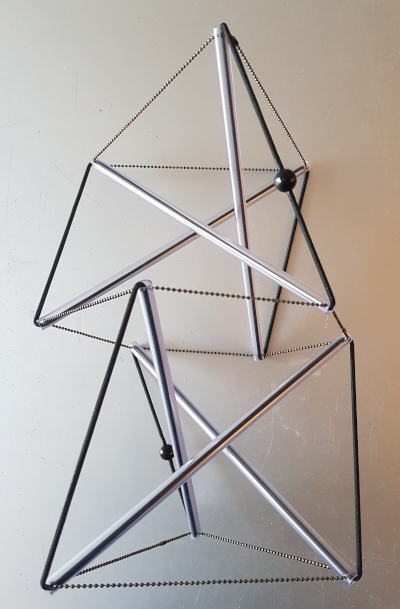
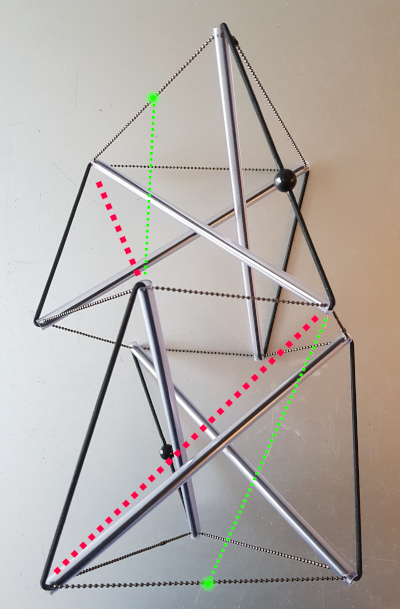
finished minimal

diff --git a/_posts/2021-02-01-minimal.md b/_posts/2021-02-01-minimal.md
@@ -6,54 +6,165 @@ categories: construction
 tags: [tensegrity]
 ---
 
-## Minimal
+## Minimalism
+
+I've always felt very excited and motivated by the idea of doing [more with less, which is called "Ephemeralization"](https://en.wikipedia.org/wiki/Ephemeralization), and I'm always looking to optimize and minimize in both code and materials, and especially techniques because they are weightless!
+
+So something about the previous project [*Degrees of Freedom*](/construction/2021/01/18/degrees-of-freedom) triggered me.
+
+It was **missing some tension lines**!  Each joint had just 3 instead of 5, yet it stood perfectly! I clearly needed to revise what I thought defines a **tensegrity**.
+
+I had tricked myself into thinking that the [Snelson Needle](https://krollermuller.nl/en/kenneth-snelson-needle-tower) structure was the defining set of tension and compression.
 
 ![dof-lesson][dof-lesson]
 
+The red tension lines could actually be added to the *Degrees of Freedom* structure, and their role would be to pull these two twists together (but what you would be doing is limiting its degrees of freedom, so that kind of defeats the purpose, or at least the name).
+
+The green tension lines would normally have been employed to pull towards the next twist above and the next one below, which in this case don't exist (green spots).
+
+Remember last time we saw the tension hexagon.
+
+![hex](/images/2021-01/dof-tension-hex.jpg)
+
+Normally in the structures we have built so far these hexagons are not flat, but are pulled into a zig zag shape by the tension lines which are missing in *Degrees of Freedom*.
+
+Gradually I realized that this was a whole new direction opening up for construction!
+
+## Three Tension Lines
+
+I was only able to stare at *Degrees of Freedom* for so long before I started wondering what this would be like with serious materials.
+
+I had to get this structure in my head and find out how it feels in **brass and dyneema**!
+
+I made a little animation to meditate on, so I could get a feeling for what only the cords of a tower would look like with this minimal tension scheme.
+
+<iframe width="560" height="315" src="https://www.youtube.com/embed/IErC2I2OSac" frameborder="0" allow="accelerometer; autoplay; clipboard-write; encrypted-media; gyroscope; picture-in-picture" allowfullscreen></iframe>
+
+So the challenge was to create a situation of **very high tension**, more than the bottom twists in [*Halo by Crane*](/construction/2020/11/02/halo-2) when they are carrying the whole weight (these can be plucked like a guitar and play fairly high note).
+
+## Aluminum Joints
+
+I returned to a piece of leftover perforated aluminum that I used a long time ago when building the [*Twist Sisters*](/construction/2020/07/13/twist), because that would make a strong joint.
+
 ![aluminum][aluminum-1]
+
+I needed joints to bring together just 3 tension cords, so I gave each one of them its own hole, leaving one hole in the middle for the bar.
 
 ![aluminum][aluminum-2]
 
+The three holes in a row makes some sense because the tension hexagon between adjacent twists will be flat now, so it would be cable-bar-cable.  The third hole will be to connect the twist from bottom to top.
+
 ![aluminum][aluminum-3]
+
+To make it a little more attractive I sanded off the edges a bit.
 
 ![aluminum][aluminum-4]
 
-![detail][detail-1]
+Not perfect, but at least there were no sharp edges anymore.
 
 ![detail][detail-2]
 
-![detail][detail-3]
+To complete the joint, it had to be tightly attached by its middle hole to the bolt that was to be inserted into the hollow brass tube.
 
+Note that there are left-handed and right-handed joints because the third hole is for the tension line of either a right or left twist. The angle of the third hole was very nice!
 
+![detail][detail-1]
+
+A little experimentation with cutting and knotting Dyneema cord segments to the holes, and I was ready to start building! 
+
+This is using a thicker kind of Dyneema than previously used, which was vastly stronger than it needed to be. The tension would not be the weak point, that's for sure.
+
+The fact that we had already discovered a very efficient way to create knotted cord segments in the [*Fractal Experiment*](/construction/2021/01/11/fractal) was remarkably helpful.
+
+There are two nuts required for every bolt, because together they will determine the distance that the bolt extends out of the tube, for adjusting the effective length of a bar.
+
+## Assembly
+
+Cutting the brass bars was much easier than for [*Halo by Crane*](/construction/2020/11/02/halo-1) since they could all be exactly the same length.
+
+I tied up the twists beforehand with an elastic cord so that it became possible to construct the tension hexagons between twists.
+
+I opted this time, as an extension of this experiment, to use only left-handed twists. I wanted to see how the spiral shape would make it behave.
 
 ![assembly][assembly-1]
 
-![assembly][assembly-3]
+This was going to get longer, so it was best to switch to horizontal.
 
 ![assembly][assembly-4]
 
-![tighten][tighten]
+Eventually I had all inter-twist hexagons complete, and the only thing remaining was to add the final set of slightly longer cord segments.
 
-![sisters][sisters-1]
+![assembly][assembly-3]
 
-![sisters][sisters-2]
+Once I had the final set of cords in place, all that was left was to tighten up the bolts, extending the effective length of the bars, and raising the tension to **a whole new level**.
 
-![sisters][sisters-3]
-
-![sisters][sisters-4]
-
-![sisters][sisters-5]
+Having less cords actually also made it easier to get in there with a wrench and tighten for real.
 
 ![tighten][tighten]
+
+It reminded me of the very first project I did [*Prefab Tension*](/construction/2020/06/15/prefab-tension-1) where I first felt **high tension**.
+
+## Standing Tall and Twisty
+
+So there it was! 
+
+The cords were so tense that the hexagons of tension were basically as flat as the ones in *Degrees of Freedom*, but this was heavy brass.
 
 ![final][final-1]
 
-![final][final-2]
+It surprised me that I was able to make it this straight! Look carefully and you can also see that every one of the twists is left-handed and there is a kind of spiral shape.
 
 ![final][final-3]
 
+I was mesmerised!
 
+I bent the aluminum joints a bit to make them take on the appropriate angles to carry the extreme level of tension.
 
+![final][final-2]
+
+But, since I still had more materials, it started to seem one-sided, so actually **incomplete!**
+
+## Need to make its Twist Sister
+
+I had the left-handed tower, so I couldn't help immediately building the right-handed one.
+
+All the parts were the same, so that was the first challenge.
+
+![sisters][sisters-1]
+
+Then I just had to assemble the twists that I had tied up in the right-handed way.
+
+![sisters][sisters-2]
+
+Assembling was even a bit easier this time because I had the other one still fresh in my mind.
+
+![sisters][sisters-3]
+
+After the second one was completed, I naturally had to subject the pair to the Bucky Fuller Test with both volumes of Synergetics.
+
+That proved too easy, so I upped the ante by adding Kenneth Snelson's book "forces made visible". This was to be full tensegrity challenge!  The columns were so tight that they didn't break a sweat holding this up - it was easy.
+
+I had to balance it all against the wall because these towers are **not nearly as rigidly straight** as the ones up until now (an advantage in some respects, as we'll see!).
+
+![sisters][sisters-4]
+
+Viewing them from certain angles starts to remind you of legs, especially since they have opposing spirals.
+
+![sisters][sisters-5]
+
+## Conclusion
+
+This was an exciting one, because I feel like a whole new door has opened up.
+
+I can now make tensegrity towers with a whole lot less complexity since so many of the tension lines are just **missing**.  I could see them coming back, but then differently.  Stay tuned.
+
+The price that you have to pay for this simplicity is that you have to raise the tension with a couple of orders of magnitude.
+
+Also exciting was that this was the first tower I had built with all twists being the same. I did that to find out what kind of spiral dynamic behavior could be observed.
+
+Here's the result:
+
+<iframe width="560" height="315" src="https://www.youtube.com/embed/XS2hMQTNXzw" frameborder="0" allow="accelerometer; autoplay; clipboard-write; encrypted-media; gyroscope; picture-in-picture" allowfullscreen></iframe>
 
 [aluminum-1]: /images/2021-02/min-aluminum-1.jpg
 [aluminum-2]: /images/2021-02/min-aluminum-2.jpg
